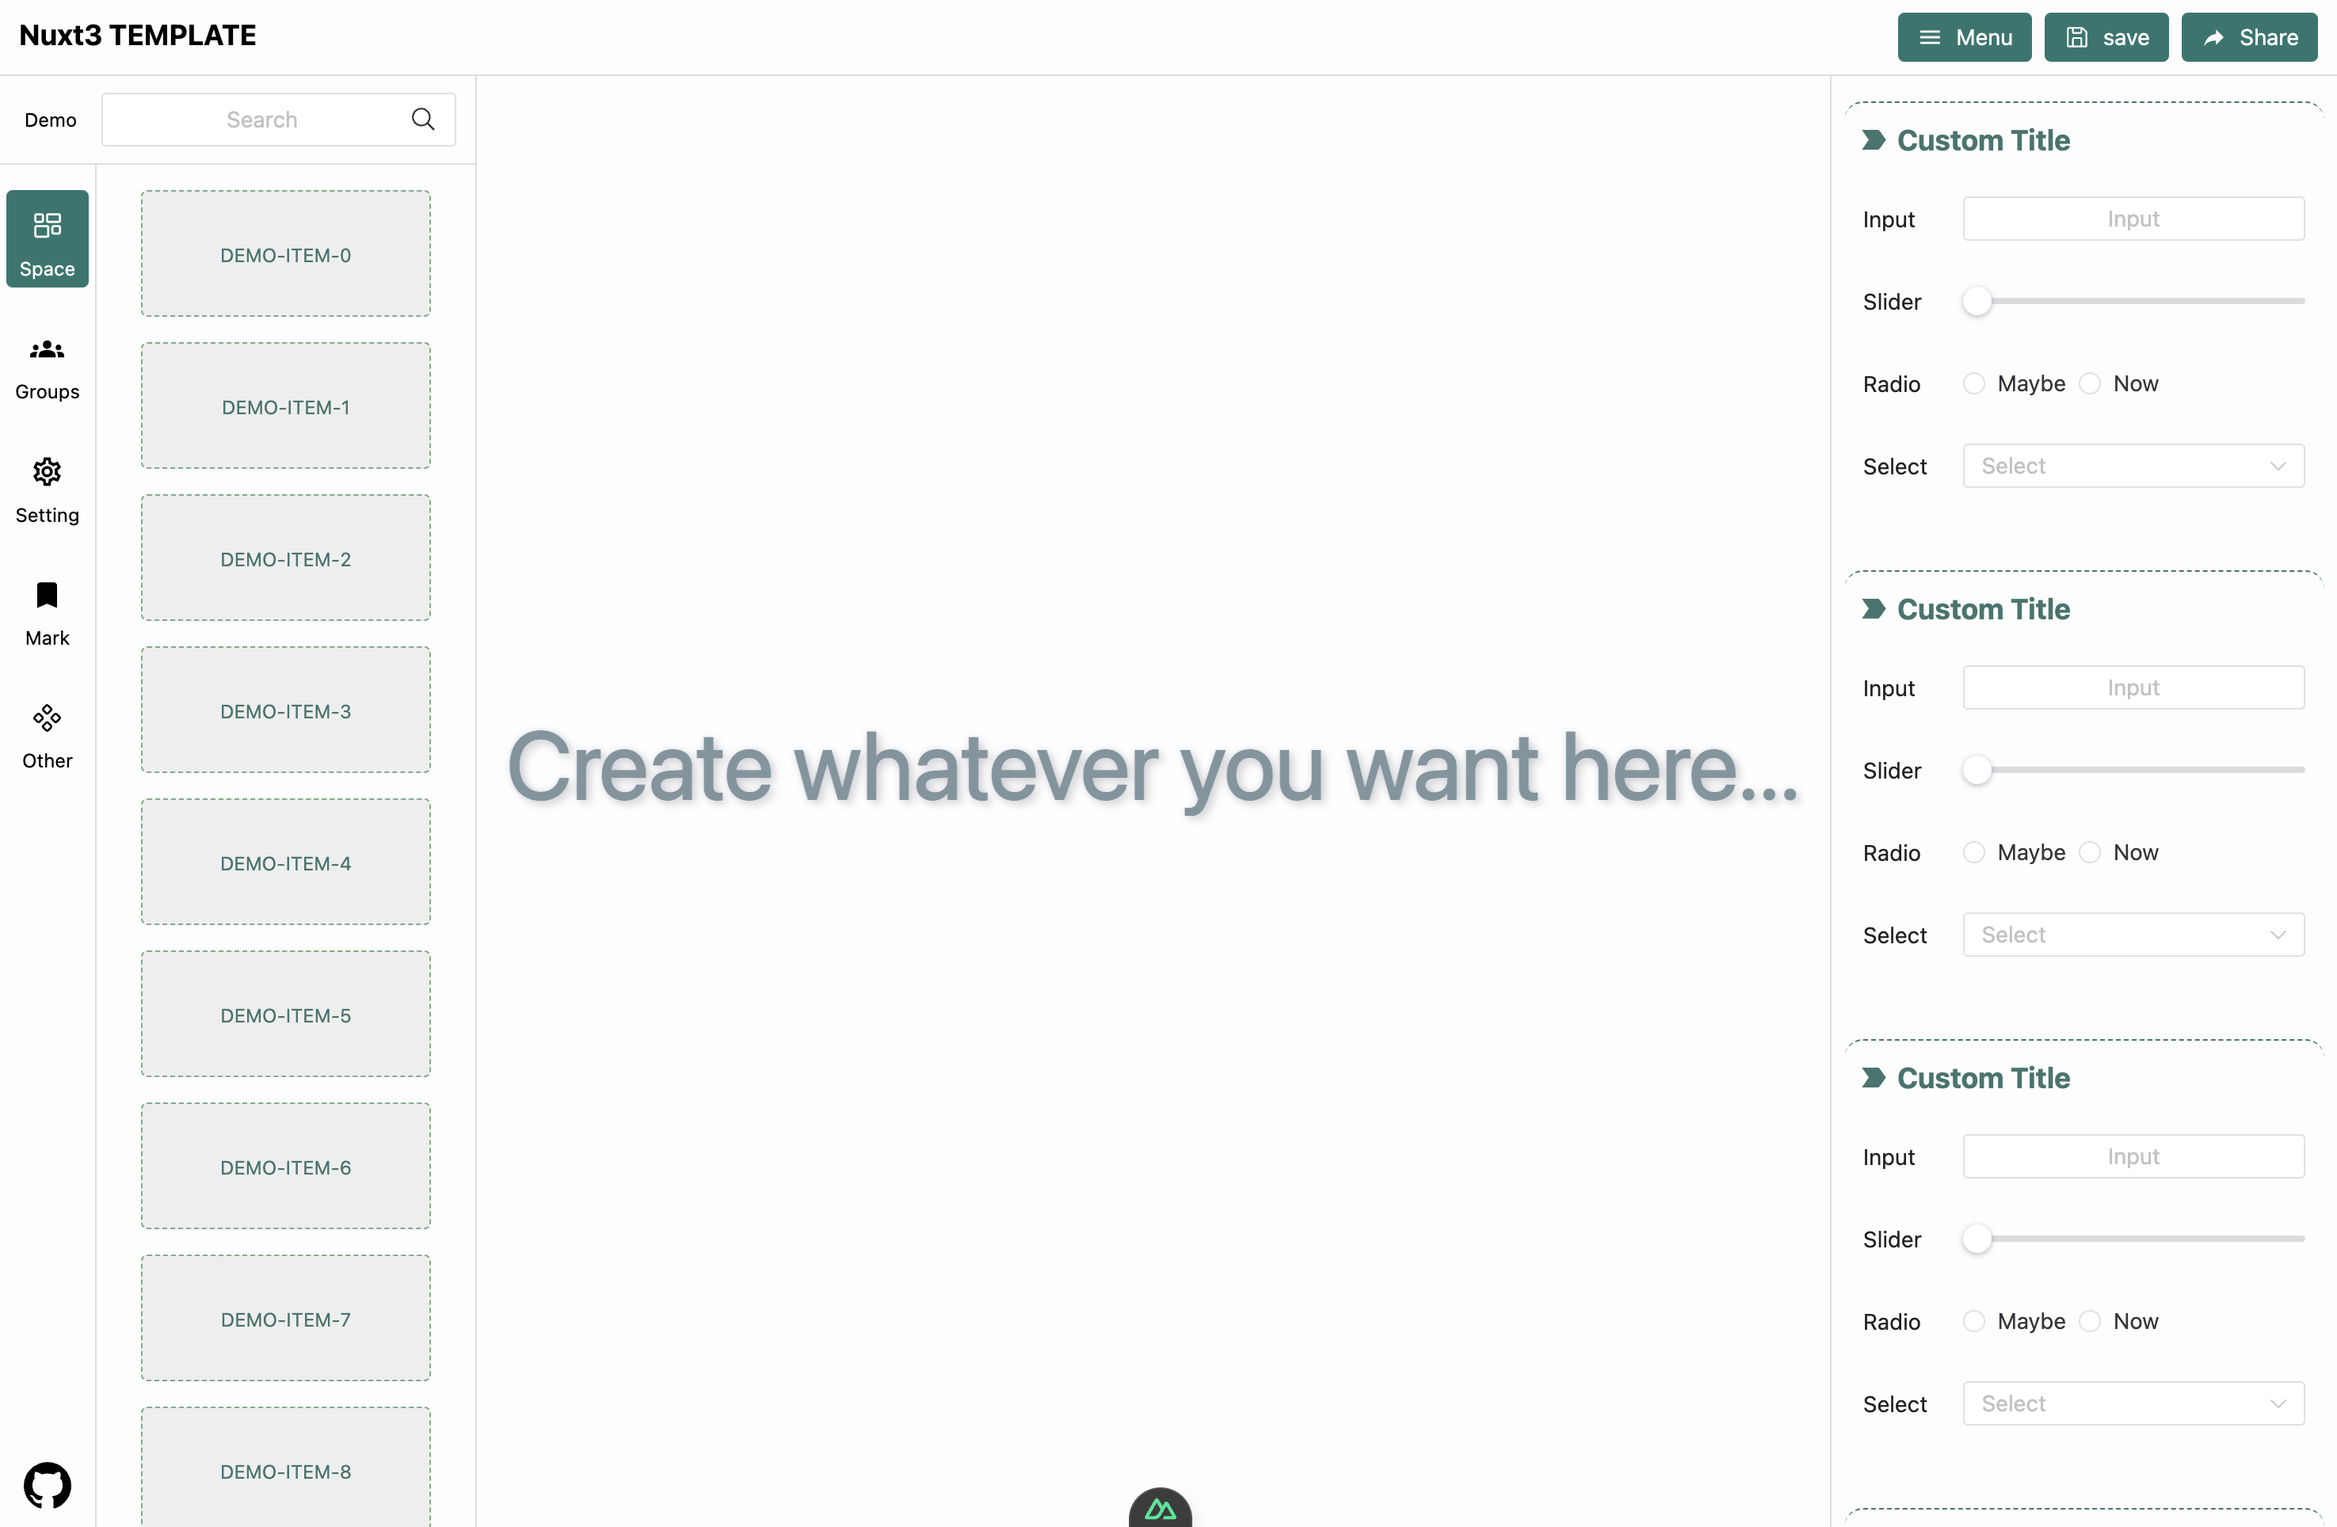
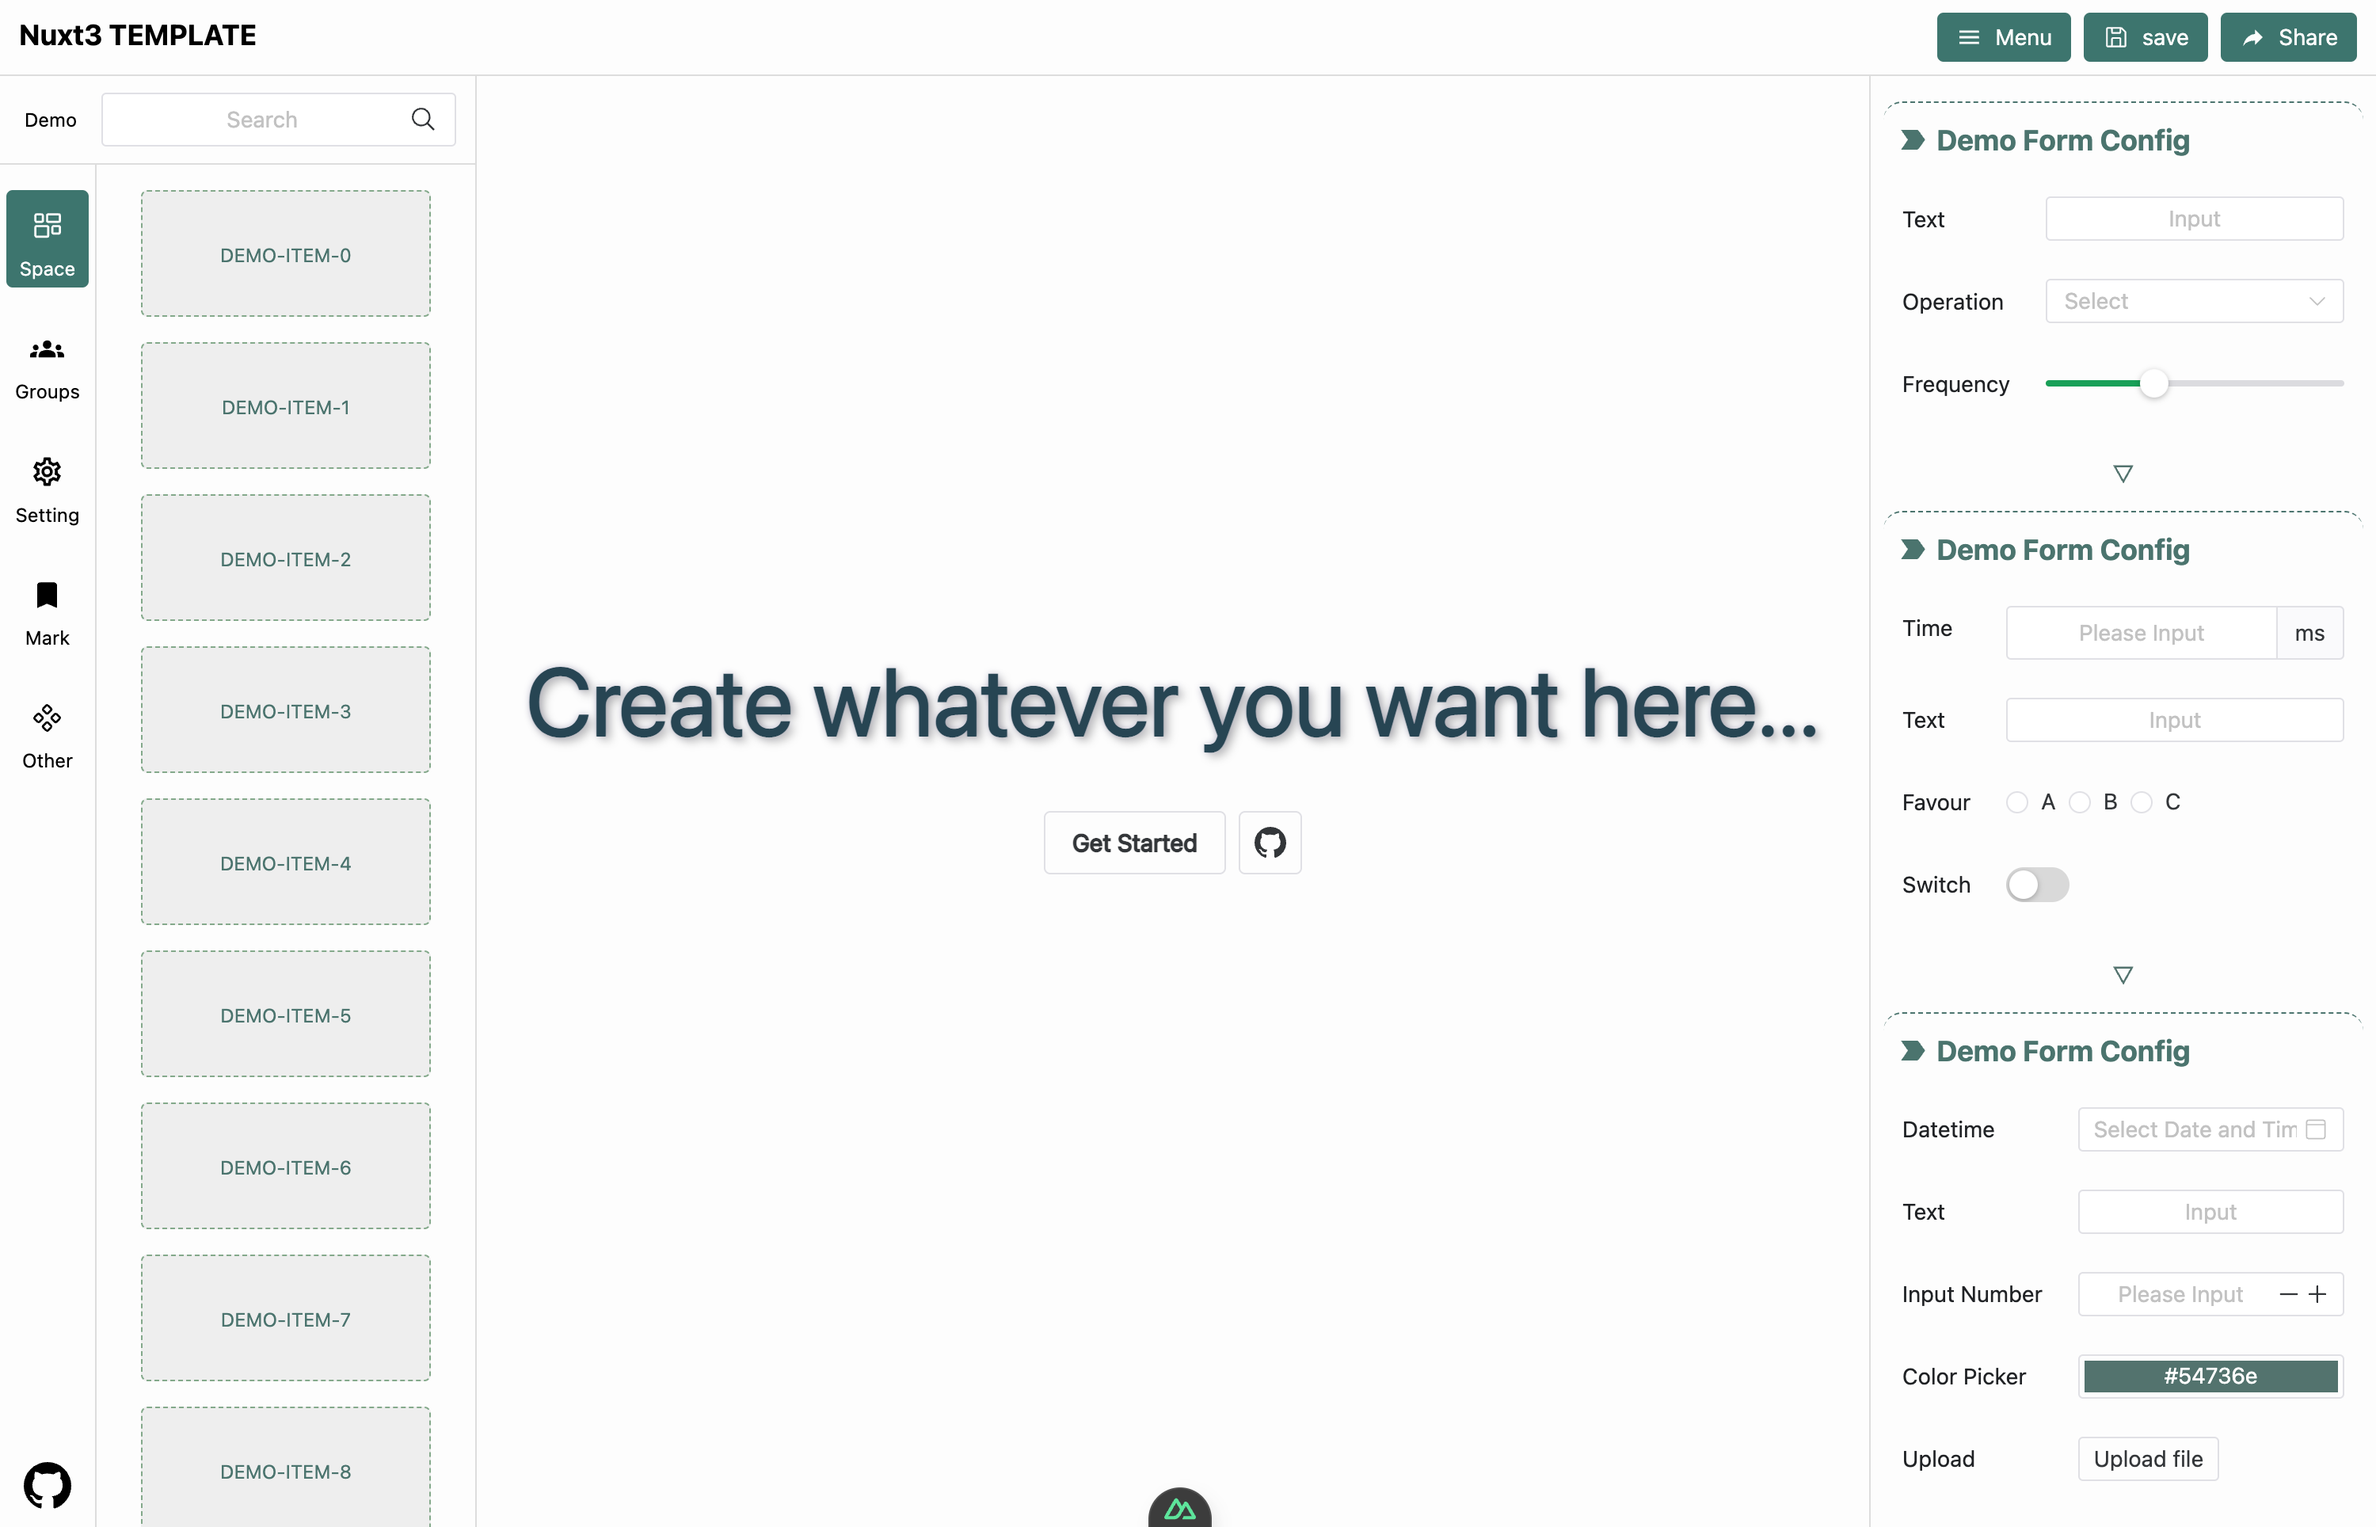
feat: style control pane

diff --git a/components/ControlPane/index.vue b/components/ControlPane/index.vue
@@ -1,14 +1,20 @@
 <script setup lang="ts">
-import { NForm, NFormItem, NInput, NRadio, NSelect, NSlider } from 'naive-ui'
+import { NButton, NColorPicker, NDatePicker, NForm, NFormItem, NInput, NInputGroup, NInputGroupLabel, NInputNumber, NRadio, NSelect, NSlider, NSwitch } from 'naive-ui'
 const model = reactive({
   inputValue: '',
   textareaValue: '',
 })
+const generalOptions = ['groode', 'veli good', 'emazing', 'lidiculous'].map(
+  v => ({
+    label: v,
+    value: v,
+  }),
+)
 </script>
 
 <template>
   <div h-full w-80 overflow-auto text="#FFFFFFD7" pt-12 px-2 class="control-pane">
-    <ControlPaneArea v-for="it in 4" :key="it" title="Custom Title">
+    <ControlPaneArea title="Demo Form Config">
       <NForm
         ref="formRef"
         label-placement="left"
@@ -20,30 +26,94 @@ const model = reactive({
           maxWidth: '640px',
         }"
       >
-        <NFormItem label="Input" path="inputValue">
-          <NInput v-model:value="model.inputValue" placeholder="Input" />
+        <NFormItem label="Text" path="inputValue">
+          <NInput placeholder="Input" />
         </NFormItem>
-        <NFormItem label="Slider" path="textareaValue">
-          <NSlider />
-        </NFormItem>
-        <NFormItem label="Radio" path="textareaValue">
-          <NRadio
-            value="Definitely Maybe"
-            name="basic-demo"
-          >
-            Maybe
-          </NRadio>
-          <NRadio
-            value="Be Here Now"
-            name="basic-demo"
-          >
-            Now
-          </NRadio>
-        </NFormItem>
-        <NFormItem label="Select" path="selectValue">
+        <NFormItem label="Operation" path="selectValue">
           <NSelect
             placeholder="Select"
+            :options="generalOptions"
           />
+        </NFormItem>
+        <NFormItem label="Frequency" path="textareaValue">
+          <NSlider :value="35" />
+        </NFormItem>
+      </NForm>
+    </ControlPaneArea>
+    <ControlPaneArea title="Demo Form Config">
+      <NForm
+        ref="formRef"
+        label-placement="left"
+        label-width="auto"
+        require-mark-placement="right-hanging"
+        size="small"
+        label-align="left"
+        :style="{
+          maxWidth: '640px',
+        }"
+      >
+        <NFormItem label="Time">
+          <NInputGroup>
+            <NInput size="small" />
+            <NInputGroupLabel>ms</NInputGroupLabel>
+          </NInputGroup>
+        </NFormItem>
+        <NFormItem label="Text" path="inputValue">
+          <NInput placeholder="Input" />
+        </NFormItem>
+        <NFormItem label="Favour" path="textareaValue">
+          <NRadio
+            value="A"
+            name="basic-demo"
+          >
+            A
+          </NRadio>
+          <NRadio
+            value="B"
+            name="basic-demo"
+          >
+            B
+          </NRadio>
+          <NRadio
+            value="C"
+            name="basic-demo"
+          >
+            C
+          </NRadio>
+        </NFormItem>
+        <NFormItem label="Switch" path="textareaValue">
+          <NSwitch />
+        </NFormItem>
+      </NForm>
+    </ControlPaneArea>
+    <ControlPaneArea title="Demo Form Config">
+      <NForm
+        ref="formRef"
+        label-placement="left"
+        label-width="auto"
+        require-mark-placement="right-hanging"
+        size="small"
+        label-align="left"
+        :style="{
+          maxWidth: '640px',
+        }"
+      >
+        <NFormItem label="Datetime" path="datetimeValue">
+          <NDatePicker type="datetime" />
+        </NFormItem>
+        <NFormItem label="Text" path="inputValue">
+          <NInput placeholder="Input" />
+        </NFormItem>
+        <NFormItem label="Input Number" path="inputNumberValue">
+          <NInputNumber />
+        </NFormItem>
+        <NFormItem label="Color Picker" path="colorValue">
+          <NColorPicker value="#54736e" />
+        </NFormItem>
+        <NFormItem label="Upload" path="uploadValue">
+          <n-upload>
+            <NButton>Upload file</NButton>
+          </n-upload>
         </NFormItem>
       </NForm>
     </ControlPaneArea>

diff --git a/components/Editor/index.vue b/components/Editor/index.vue
@@ -1,4 +1,9 @@
 <script setup lang="ts">
+import { NButton } from 'naive-ui'
+// https://github.com/peterroe/nuxtmp/generate
+const handleClickIcon = () => {
+  window.open('https://github.com/peterroe/nuxtmp')
+}
 </script>
 
 <template>
@@ -7,15 +12,24 @@
     text-6xl
     text-shadow-lg
     my-0
-    flex
+    flex flex-col
     text="#264653"
     text-stroke-1
-    animate-pulse
     items-center
     justify-center
     class="editor"
   >
     Create whatever you want here...
+    <div mt-10 flex items-center>
+      <NButton size="large" target="_blank" mr-2 rounded>
+        <a href="https://github.com/peterroe/nuxtmp/generate">
+          Get Started
+        </a>
+      </NButton>
+      <NButton px-2 size="large" rounded @click="handleClickIcon">
+        <div text-xl i-mdi-github />
+      </NButton>
+    </div>
   </div>
 </template>
 

diff --git a/components/ControlPane/area.vue b/components/ControlPane/area.vue
@@ -11,6 +11,7 @@ const props = defineProps<{
   <div p-3 class="area-body" rounded="xl">
     <slot />
   </div>
+  <div i-mdi-triangle-down-outline text="#54736e" mx-auto />
 </template>
 
 <style scoped>
